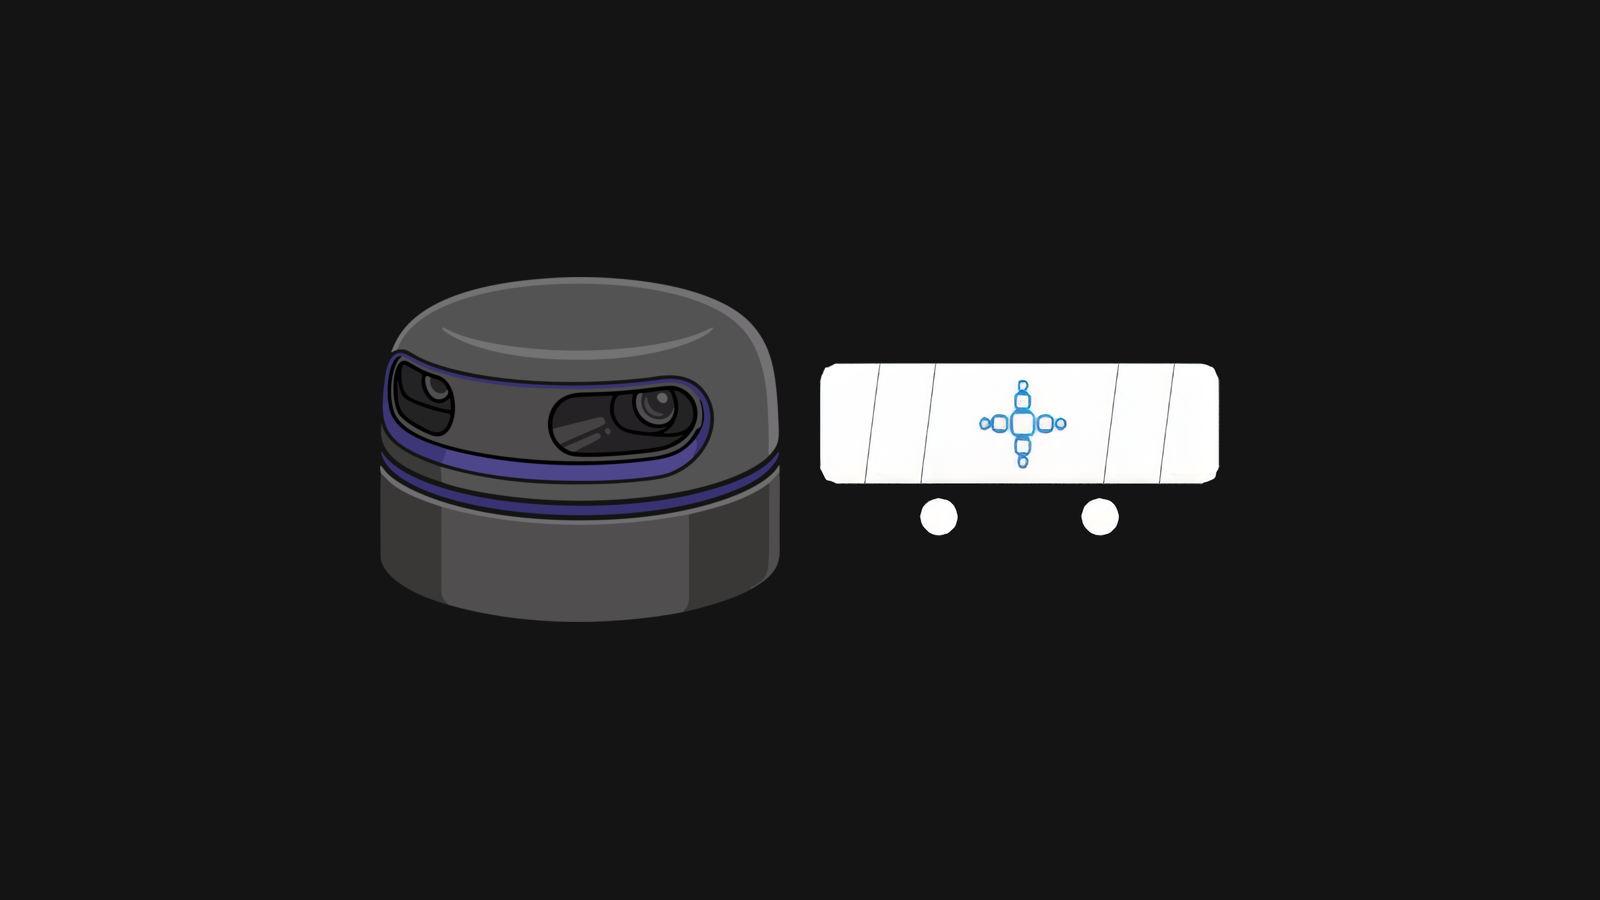
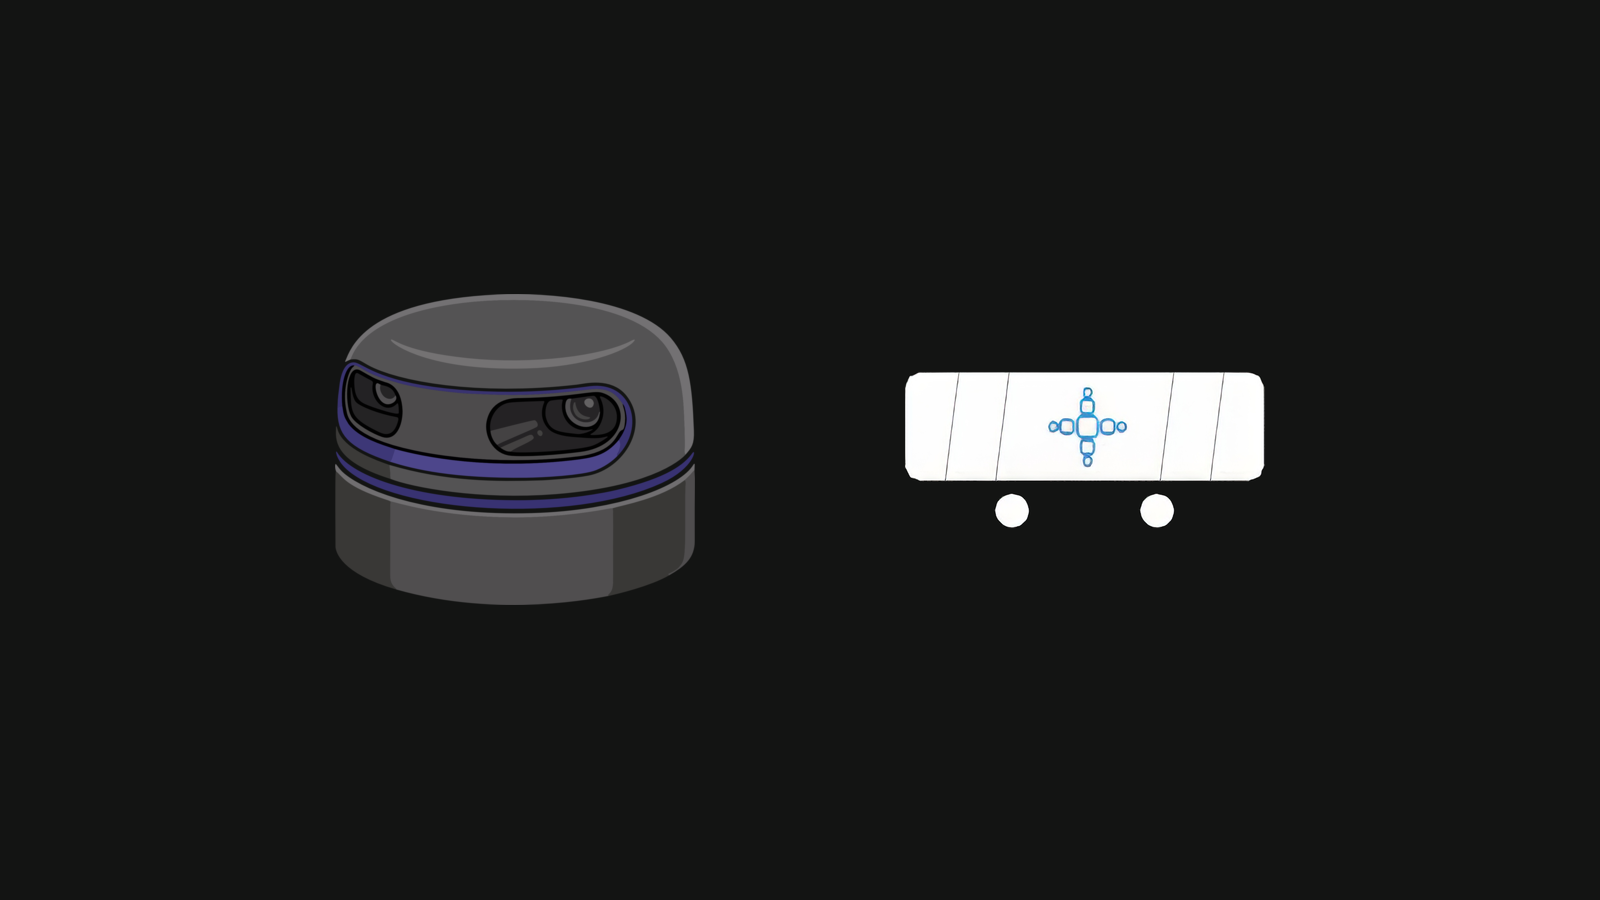
docs: wider RPLidar composition, and correct the card safe area
The documented safe area was wrong in two ways: it named "the middle ~73%"
from a single measurement, and it missed that the slot crops VERTICALLY at
all. Measured on the live DOM at two viewports — at 1280 the panel is
1.06:1 and shows the middle 59% of the width; at 1920 the blurb rewraps,
the panel becomes 2.32:1, and it shows the middle 77% of the height. The
usable area is the intersection.

RPLidar's two elements move from a 40px gap to 210px, still inside that
intersection, verified by rendering at both breakpoints. Per Jovan: when a
composition has to give, favour the wide case — these are desktop users.

Changed region(s): [[0.1875, 0.28, 0.8125, 0.7156]]

diff --git a/CLAUDE.md b/CLAUDE.md
@@ -67,12 +67,23 @@ Why it is a rule and not a nicety: swapping the Advanced Velocity card image loo
 4. **Check more than one viewport width.** Card and image boxes reflow at Retype's breakpoints, and a crop that survives at 1750 can clip at 1400. Two desktop widths plus one mobile (`--window-size=430,900 --force-device-scale-factor=2`) covers it.
 5. For measuring rather than eyeballing (box sizes, `object-fit`, natural vs rendered dimensions), query the live DOM with the browser tools instead of guessing — that is how the geometry below was established.
 
-### Card image geometry (measured, so nobody re-derives it)
+### Card image geometry (measured on the live DOM, so nobody re-derives it)
 - The card's image panel is **`object-fit: cover`** — it always crops, never letterboxes.
-- **Desktop:** `md:w-5/12` of the card width, with the **height set by the description text**, not the image. Measured 240x283 (4-line blurb) and 300x230 (3-line) — so roughly **1.0–1.3:1, and it moves with blurb length and viewport width**.
+- The panel is `md:w-5/12` of the card width with its **height set by the description text**, not the image. So its aspect moves with BOTH the viewport width and the blurb length.
+- 🔴 **IT CROPS IN TWO DIFFERENT DIRECTIONS, AND ONE MEASUREMENT ONLY EVER SHOWS YOU ONE OF THEM.** Measured on the RPLidar card, 2026-08-06:
+
+  | viewport | panel | aspect | what is cropped |
+  |---|---|---|---|
+  | 1280 | 240x228 | 1.06:1 | full height, only the **middle 59% of the WIDTH** |
+  | 1920 | 398x172 | 2.32:1 | full width, only the **middle 77% of the HEIGHT** |
+
+  The blurb rewraps to fewer lines as the viewport widens, the panel gets shorter, and the crop flips axis. **The usable area is the INTERSECTION of the two**, not either one.
 - **Mobile:** the panel stacks on top at `pb-9/16` — **exactly 16:9**.
-- 🔧 **Therefore: supply 16:9, and keep everything that matters inside the middle ~73% horizontally.** That is the narrowest window `cover` leaves on desktop. Corner-anchored logos and title lockups are the first casualties; a picture that is *composed* to the centre survives every breakpoint.
-- Photographic cards ship as **JPG ~1600x900, q88 (~240 KB)**; a PNG of the same image is ~2.3 MB for no visible gain. Flat-art cards stay PNG.
+- 🔧 **Therefore: supply 16:9, and keep everything that matters inside the middle 59% horizontally AND the middle 77% vertically.** On a 1600x900 that is x 328–1272, y 105–795. Corner-anchored logos and title lockups are the first casualties; a picture *composed* to the centre survives every breakpoint.
+  ⚠ An earlier note here said "middle ~73%" with no vertical limit. That came from a single measurement at one viewport and was wrong in both respects — **measure at a narrow AND a wide viewport before trusting a safe area.**
+- 🔧 **When a composition has to give somewhere, favour the WIDE case** (Jovan, 2026-08-06): these are Houdini users on desktop monitors, so the 1920-ish regime is the one most people see.
+- The cover generator's `card` preset encodes both insets (`0.205` / `0.115`) and `--guides` draws the box on all four sides.
+- Photographic cards ship as **JPG ~1600x900, q88 (~240 KB)**; a PNG of the same image is ~2.3 MB for no visible gain. **Flat vector art stays PNG** — JPG rings on hard edges and comes out larger anyway (RPLidar's card: 104 KB PNG).
 
 ## Retype features in use (added 2026-08-06 — read before adding more)
 
